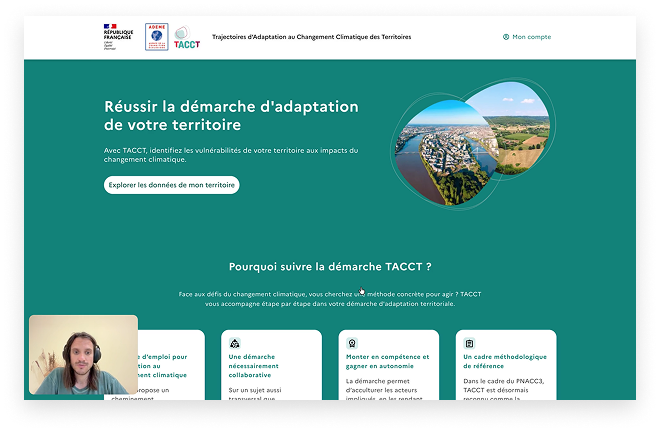
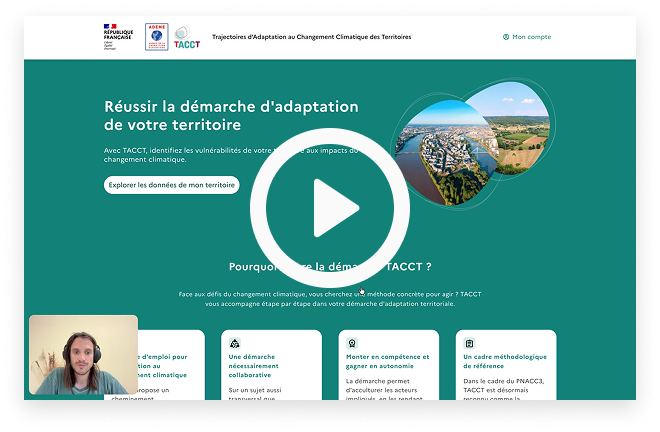
chore(espace connecté): modifications texte + carte localisation dans profil

Changed region(s): [[0.3636, 0.2708, 0.6364, 0.6921], [0.4545, 0.4213, 0.5455, 0.5417]]

diff --git a/src/components/mon-espace/ProfilCard.tsx b/src/components/mon-espace/ProfilCard.tsx
@@ -2,15 +2,27 @@ import styles from '@/app/(espace-connecte)/(avec-navigation)/mon-espace/monEspa
 import avatar from '@/assets/svg/custom/avatar-profil.svg';
 import { TagsSimples } from '@/design-system/base/Tags';
 import { Body, H1 } from '@/design-system/base/Textes';
-import { PROFILS } from '@/lib/questionnaire-de-connexion/types';
+import { PROFILS, TYPES_TERRITOIRE } from '@/lib/questionnaire-de-connexion/types';
+import { ReplaceDisplayEpci } from '@/lib/utils/string';
 import Image from 'next/image';
+
+const PinIcon = () => (
+  <svg width="20" height="20" viewBox="0 0 24 24" fill="none" aria-hidden="true">
+    <path
+      d="M12 23.7279L5.636 17.3639C4.37734 16.1052 3.52019 14.5016 3.17293 12.7558C2.82567 11.0099 3.00391 9.20035 3.6851 7.55582C4.36629 5.91129 5.51984 4.50569 6.99988 3.51677C8.47992 2.52784 10.22 2 12 2C13.78 2 15.5201 2.52784 17.0001 3.51677C18.4802 4.50569 19.6337 5.91129 20.3149 7.55582C20.9961 9.20035 21.1743 11.0099 20.8271 12.7558C20.4798 14.5016 19.6227 16.1052 18.364 17.3639L12 23.7279ZM16.95 15.9499C17.9289 14.9709 18.5955 13.7236 18.8656 12.3658C19.1356 11.0079 18.9969 9.60052 18.4671 8.32148C17.9373 7.04244 17.04 5.94923 15.8889 5.18009C14.7378 4.41095 13.3844 4.00043 12 4.00043C10.6156 4.00043 9.26222 4.41095 8.11109 5.18009C6.95996 5.94923 6.06275 7.04244 5.53292 8.32148C5.00308 9.60052 4.86442 11.0079 5.13445 12.3658C5.40449 13.7236 6.07111 14.9709 7.05 15.9499L12 20.8999L16.95 15.9499ZM12 12.9999C11.4696 12.9999 10.9609 12.7892 10.5858 12.4141C10.2107 12.0391 10 11.5304 10 10.9999C10 10.4695 10.2107 9.96078 10.5858 9.58571C10.9609 9.21064 11.4696 8.99992 12 8.99992C12.5304 8.99992 13.0391 9.21064 13.4142 9.58571C13.7893 9.96078 14 10.4695 14 10.9999C14 11.5304 13.7893 12.0391 13.4142 12.4141C13.0391 12.7892 12.5304 12.9999 12 12.9999Z"
+      fill="#666666"
+    />
+  </svg>
+);
 
 interface Props {
   firstname: string;
   lastname: string;
   email: string;
   profil: string | null;
-  membreCommunaute: boolean;
+  territoireType: string | null;
+  territoireLibelle: string | null;
+  territoireAutre: string | null;
 }
 
 export const ProfilCard = ({
@@ -18,53 +30,79 @@ export const ProfilCard = ({
   lastname,
   email,
   profil,
-  membreCommunaute
+  territoireType,
+  territoireLibelle,
+  territoireAutre
 }: Props) => {
   const initiale = lastname.trim().charAt(0).toUpperCase();
   const profilLabel = PROFILS.find((p) => p.value === profil)?.label;
+  const territoireTypeLabel = TYPES_TERRITOIRE.find(
+    (t) => t.value === territoireType
+  )?.label;
+  const territoireNomBrut = territoireLibelle || territoireAutre;
+  const territoireNom = territoireNomBrut
+    ? ReplaceDisplayEpci(territoireNomBrut)
+    : territoireNomBrut;
 
   return (
     <div className={styles.profil}>
       <span className={styles.profilCircle} aria-hidden="true" />
       <span className={styles.profilCircle} aria-hidden="true" />
-      <Image
-        src={avatar}
-        alt=""
-        width={88}
-        height={88}
-        className={styles.profilAvatar}
-      />
-      <div className={styles.profilTexte}>
-        <H1
-          color="#038278"
-          style={{
-            fontSize: '1.75rem',
-            lineHeight: '2.25rem',
-            letterSpacing: 0,
-            margin: 0,
-            wordBreak: 'break-word'
-          }}
-        >
-          {firstname}
-          {initiale ? ` ${initiale}.` : ''}
-        </H1>
-        <Body color="#666666" style={{ wordBreak: 'break-word' }}>
-          {email}
-        </Body>
-        {profilLabel && (
-          <div className={styles.profilTag}>
+      <div className={styles.profilIdentite}>
+        <Image
+          src={avatar}
+          alt=""
+          width={88}
+          height={88}
+          className={styles.profilAvatar}
+        />
+        <div className={styles.profilTexte}>
+          <H1
+            color="#038278"
+            style={{
+              fontSize: '1.75rem',
+              lineHeight: '2.25rem',
+              letterSpacing: 0,
+              margin: 0,
+              wordBreak: 'break-word'
+            }}
+          >
+            {firstname}
+            {initiale ? ` ${initiale}.` : ''}
+          </H1>
+          <Body color="#666666" style={{ wordBreak: 'break-word' }}>
+            {email}
+          </Body>
+          {profilLabel && (
+            <div className={styles.profilTag}>
+              <TagsSimples
+                texte={profilLabel}
+                couleur="#E3FAF9"
+                couleurTexte="#095D55"
+                taille="small"
+              />
+            </div>
+          )}
+        </div>
+      </div>
+      {territoireTypeLabel && territoireNom && (
+        <div className={styles.profilTerritoire}>
+          <div className={styles.profilTerritoireBadges}>
+            <span className={styles.profilTerritoirePin} aria-hidden="true">
+              <PinIcon />
+            </span>
             <TagsSimples
-              texte={profilLabel}
+              texte={territoireTypeLabel}
               couleur="#E3FAF9"
               couleurTexte="#095D55"
               taille="small"
             />
           </div>
-        )}
-      </div>
-      <Body color="#666666" style={{ position: 'relative', zIndex: 1, marginLeft: 'auto' }}>
-        {membreCommunaute ? 'Membre de la commu' : 'Non membre de la commu'}
-      </Body>
+          <Body weight="bold" color="#038278">
+            {territoireNom}
+          </Body>
+        </div>
+      )}
     </div>
   );
 };

diff --git a/src/components/mon-espace/BlocServiceTacct.tsx b/src/components/mon-espace/BlocServiceTacct.tsx
@@ -11,11 +11,13 @@ const LIEN_VIDEO =
   'https://www.canva.com/design/DAHK933zhTA/ZqJYu-iOTxkAq8MGY4W_Cg/watch?utm_content=DAHK933zhTA&utm_campaign=designshare&utm_medium=link2&utm_source=uniquelinks&utlId=h6c09ff22fb';
 const LIEN_PRESENTATION = '';
 
-const FlecheDroiteIcon = () => (
-  <svg width="16" height="16" viewBox="0 0 24 24" fill="none" aria-hidden="true">
+const PlayIcon = () => (
+  <svg width="20" height="20" viewBox="0 0 20 20" fill="none" aria-hidden="true">
     <path
-      d="M16.172 11l-5.364-5.364 1.414-1.414L20 12l-7.778 7.778-1.414-1.414L16.172 13H4v-2z"
-      fill="currentColor"
+      fillRule="evenodd"
+      clipRule="evenodd"
+      d="M10 20C4.477 20 0 15.523 0 10C0 4.477 4.477 0 10 0C15.523 0 20 4.477 20 10C20 15.523 15.523 20 10 20ZM10 18C14.4183 18 18 14.4183 18 10C18 5.58172 14.4183 2 10 2C5.58172 2 2 5.58172 2 10C2 14.4183 5.58172 18 10 18ZM8.622 6.415L13.501 9.667C13.6124 9.74116 13.6794 9.86614 13.6794 10C13.6794 10.1339 13.6124 10.2588 13.501 10.333L8.621 13.585C8.49841 13.6663 8.34111 13.6737 8.21141 13.6043C8.0817 13.535 8.00052 13.4001 8 13.253V6.747C8.00027 6.59959 8.0816 6.46428 8.21165 6.39486C8.34169 6.32545 8.49938 6.33319 8.622 6.415Z"
+      fill="#038278"
     />
   </svg>
 );
@@ -53,8 +55,8 @@ export const BlocServiceTacct = () => (
           size="md"
           link={LIEN_VIDEO}
           rel="noopener noreferrer"
-          text="Regarder la vidéo"
-          iconeFin={<FlecheDroiteIcon />}
+          text="Regarder la démo (5min)"
+          iconeFin={<PlayIcon />}
           couleurFond="#ECFFFD"
           couleurBordure="#038278"
           style={{ border: "2px solid #038278" }}

diff --git a/src/app/(espace-connecte)/(avec-navigation)/mon-espace/monEspace.module.scss b/src/app/(espace-connecte)/(avec-navigation)/mon-espace/monEspace.module.scss
@@ -135,6 +135,20 @@ $stripe: repeating-linear-gradient(
     gap: 1rem;
     align-items: center;
     min-height: 188px;
+
+    @media screen and (max-width: 768px) {
+        flex-direction: column;
+        align-items: flex-start;
+    }
+}
+
+.profilIdentite {
+    position: relative;
+    z-index: 1;
+    display: flex;
+    align-items: center;
+    gap: 1rem;
+    min-width: 0;
 }
 
 .profilCircle {
@@ -174,6 +188,39 @@ $stripe: repeating-linear-gradient(
 .profilTag {
     align-self: flex-start;
     margin-top: 0.5rem;
+}
+
+.profilTerritoire {
+    position: relative;
+    z-index: 1;
+    display: flex;
+    flex-direction: column;
+    align-items: flex-start;
+    gap: 0.5rem;
+    background: #ffffff;
+    padding: 24px;
+    margin-left: auto;
+
+    @media screen and (max-width: 768px) {
+        margin-left: 0;
+    }
+}
+
+.profilTerritoireBadges {
+    display: flex;
+    align-items: center;
+    gap: 0.5rem;
+}
+
+.profilTerritoirePin {
+    display: flex;
+    align-items: center;
+    justify-content: center;
+    width: 2rem;
+    height: 2rem;
+    border-radius: 4px;
+    background: #f6f6f6;
+    flex-shrink: 0;
 }
 
 /* ===== Carte TACCToscope ===== */

diff --git a/src/components/mon-espace/TacctoscopeCard.tsx b/src/components/mon-espace/TacctoscopeCard.tsx
@@ -91,12 +91,12 @@ export const TacctoscopeCard = ({
                 margin: 0
               }}
             >
-              Le TACCToscope : analyse de diagnostic existant
+              Analysez votre diagnostic de vulnérabilité avec le TACCToscope
             </H3>
             {!hasAnswers && (
               <Body color="#3d3d3d" style={{ lineHeight: "24px" }}>
-              Vous révisez un diagnostic de vulnérabilité ? Ne repartez pas de zéro ! Notre outil interactif vous guide pour un retravail ciblé et méthodique.
-            </Body>
+                Vous révisez un diagnostic de vulnérabilité ? Ne repartez pas de zéro ! Notre outil interactif vous guide pour un retravail ciblé et méthodique.
+              </Body>
             )}
             {isComplete && (
               <div className={styles.pistesLigne}>

diff --git a/src/app/(espace-connecte)/(avec-navigation)/mon-espace/page.tsx b/src/app/(espace-connecte)/(avec-navigation)/mon-espace/page.tsx
@@ -67,7 +67,10 @@ const MonEspace = async () => {
       email: true,
       validated: true,
       profil: true,
-      membre_communaute: true
+      membre_communaute: true,
+      territoire_type: true,
+      territoire_libelle: true,
+      territoire_autre: true
     }
   });
   if (!user) redirect('/api/proconnect/login');
@@ -163,7 +166,9 @@ const MonEspace = async () => {
                 lastname={user.lastname}
                 email={user.email}
                 profil={user.profil}
-                membreCommunaute={user.membre_communaute}
+                territoireType={user.territoire_type}
+                territoireLibelle={user.territoire_libelle}
+                territoireAutre={user.territoire_autre}
               />
               {(estProfilElu(user.profil) ||
                 estProfilAdminEtat(user.profil)) && (

diff --git a/src/components/searchbar/fonctions.ts b/src/components/searchbar/fonctions.ts
@@ -1,20 +1,9 @@
 "use client";
 import { eptRegex } from '@/lib/utils/regex';
+import { ReplaceDisplayEpci, ReplaceSearchEpci } from '@/lib/utils/string';
 import { useRouter } from 'next/navigation';
 
-export const ReplaceDisplayEpci = (libelleEpci: string) => {
-  return libelleEpci
-    .replace("Communauté d'agglomération", 'CA')
-    .replace('Communauté de communes', 'CC')
-    .replace('Communauté urbaine', 'CU');
-};
-
-export const ReplaceSearchEpci = (libelleEpci: string) => {
-  return libelleEpci
-    .replace('CA ', "Communauté d'agglomération ")
-    .replace('CC ', 'Communauté de communes ')
-    .replace('CU ', 'Communauté urbaine ');
-};
+export { ReplaceDisplayEpci, ReplaceSearchEpci };
 
 export const libellesTypeTerritoire: Record<TerritoireType, string> = {
   epci: 'EPCI',

diff --git a/src/lib/utils/string.ts b/src/lib/utils/string.ts
@@ -16,6 +16,20 @@ export const isFalsy = (v?: string): boolean => !v || ["no", "false", "0"].inclu
 export const escapeStringRegexp = (string: string) =>
   string.replace(/[|\\{}()[\]^$+*?.]/g, "\\$&").replace(/-/g, "\\x2d");
 
+export const ReplaceDisplayEpci = (libelleEpci: string) => {
+  return libelleEpci
+    .replace("Communauté d'agglomération", 'CA')
+    .replace('Communauté de communes', 'CC')
+    .replace('Communauté urbaine', 'CU');
+};
+
+export const ReplaceSearchEpci = (libelleEpci: string) => {
+  return libelleEpci
+    .replace('CA ', "Communauté d'agglomération ")
+    .replace('CC ', 'Communauté de communes ')
+    .replace('CU ', 'Communauté urbaine ');
+};
+
 export const slugify = (string: string) =>
   string
     .toLowerCase()

diff --git a/src/components/mon-espace/BlocsRessourcesEntreprise.tsx b/src/components/mon-espace/BlocsRessourcesEntreprise.tsx
@@ -47,7 +47,7 @@ const LienExterneIcon = () => (
 export const EntreprisePlateformeAgir = () => (
   <CarteLienUtile
     fond="#d3edeb"
-    titre="Votre plateforme dédiée : Agir pour la transition (ADEME)"
+    titre="La plateforme dédiée aux entreprises : Agir pour la transition (ADEME)"
     texte={
       <>
         Un parcours pour les entreprises, avec des <b>outils</b>, <b>méthodes</b>{' '}
